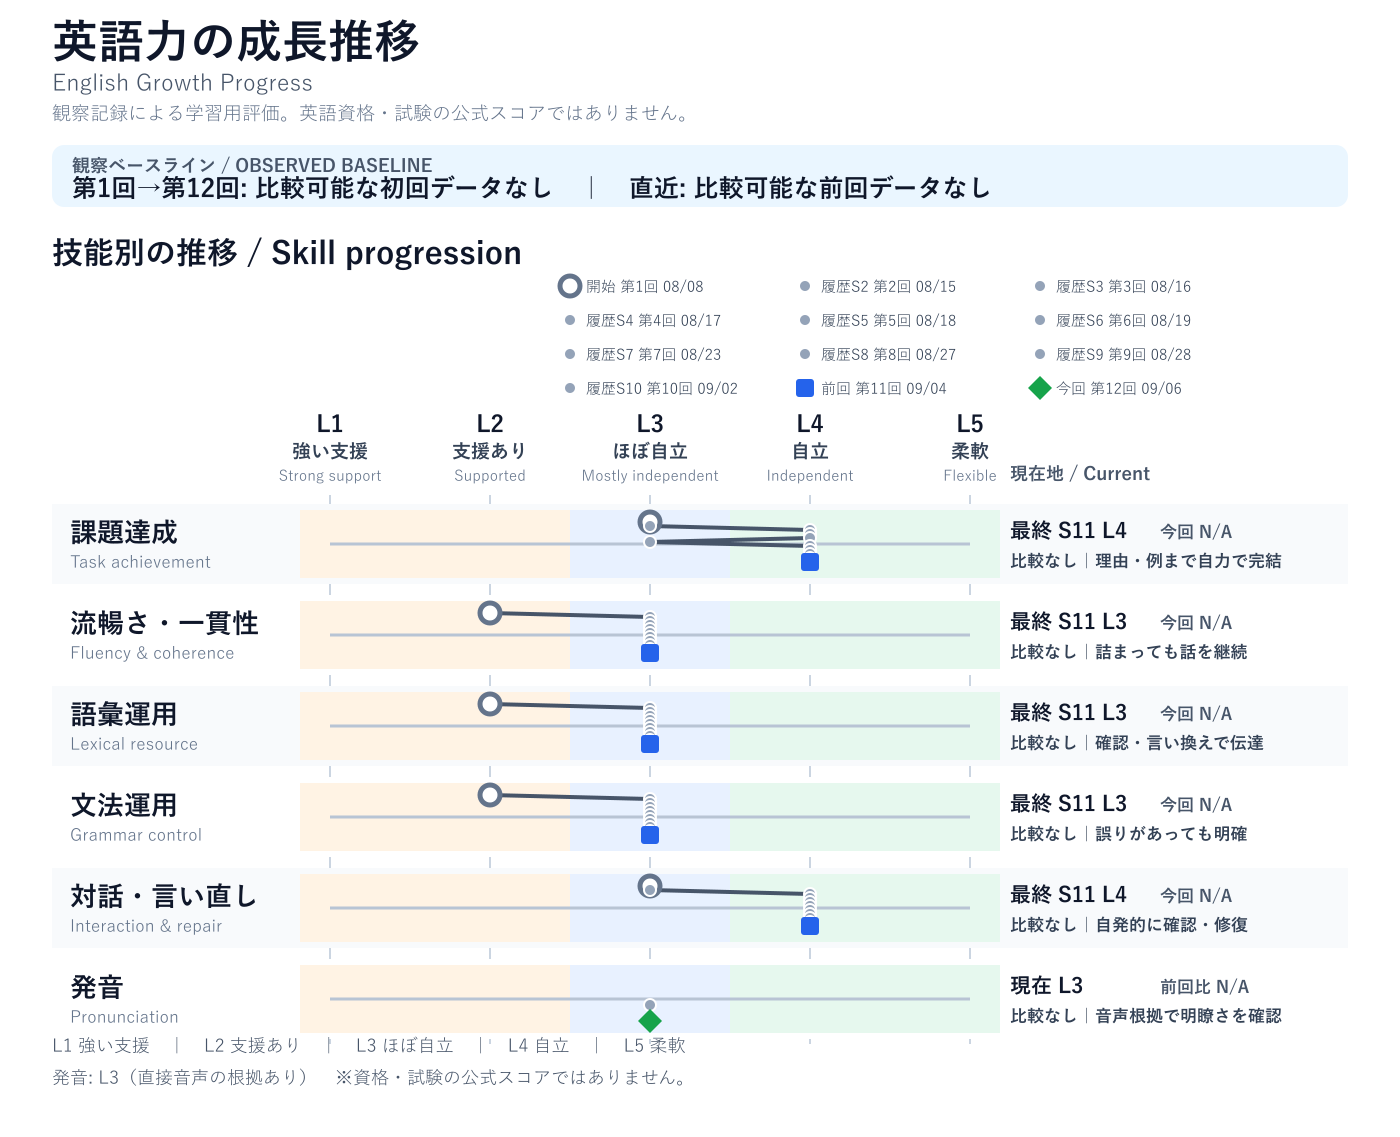
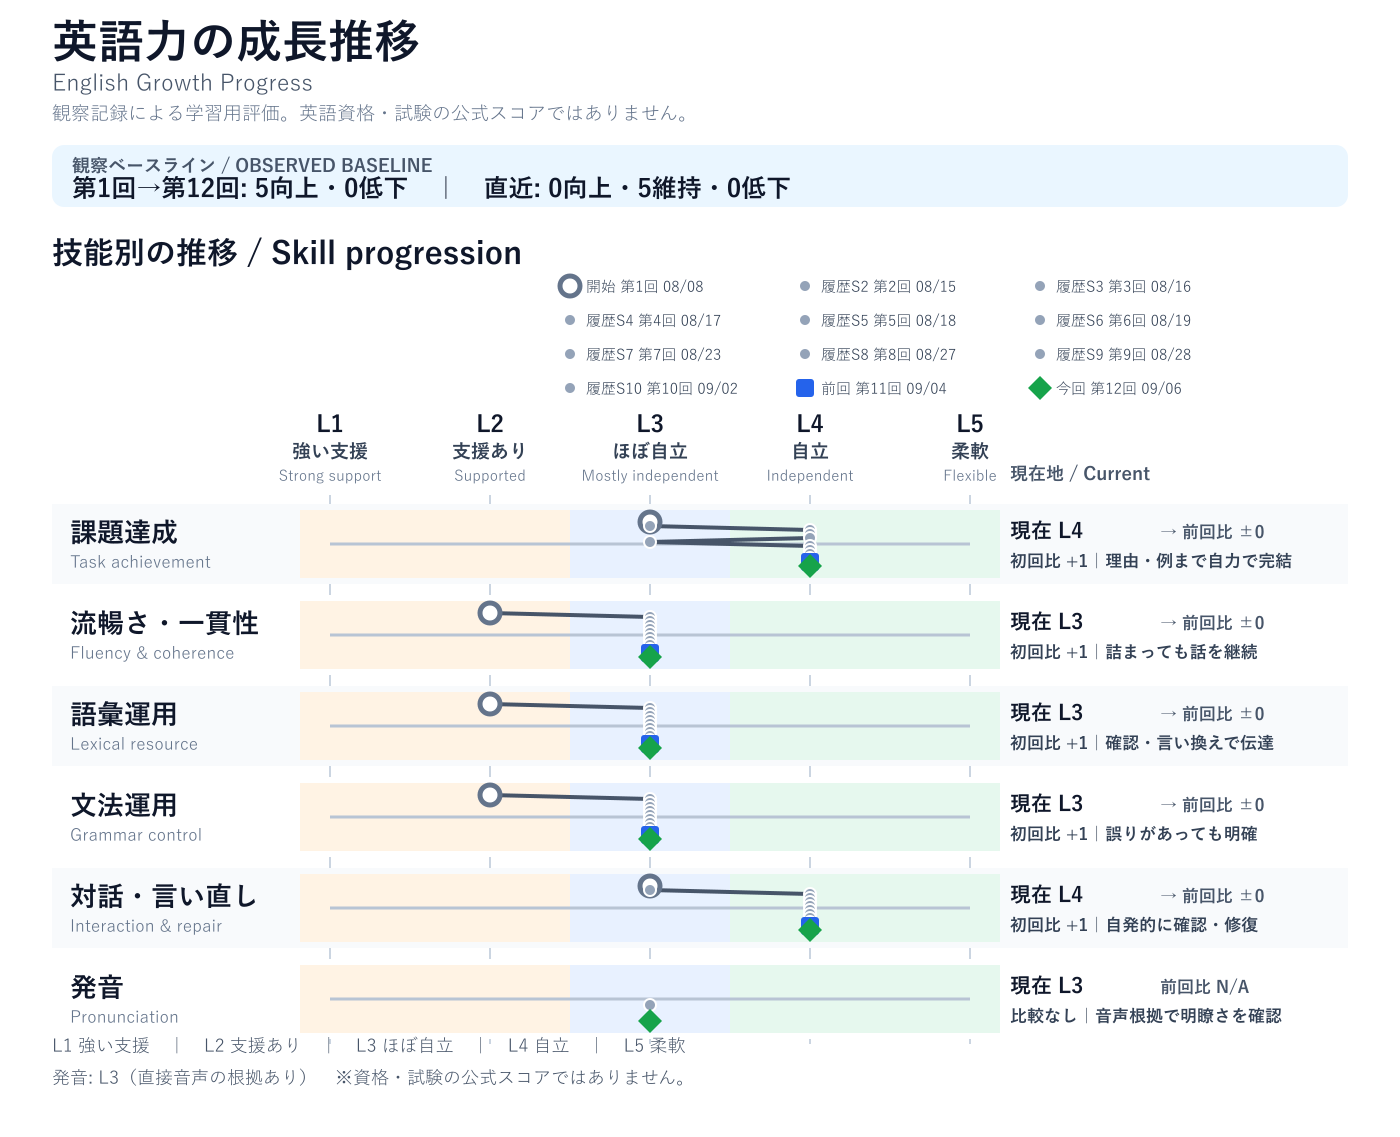
fix: evaluate full GPT-6 Astra conversation

diff --git a/learning-records/journal.md b/learning-records/journal.md
@@ -74,7 +74,7 @@
 > **主な話題:** GPT-6 Astraの公式記事、技術英文の音読、AIの自律性とソフトウェア設計、直接音声による発音評価
 
 > [!NOTE]
-> 今回は標準の60秒ベンチマークではない、約36秒の`read_aloud`評価である。会話能力の5指標は再採点せず、直接確認できたPronunciationだけを記録する。
+> 会話能力の5指標は本日の会話全体、Pronunciationは約36秒の直接録音から評価する。音読は標準の60秒ベンチマークではないため、Pronunciationの過去回との優劣は判定しない。
 
 ### 今日の要点 / Today at a Glance
 
@@ -190,15 +190,17 @@ An application may work well on the surface, while hidden problems remain in the
 
 ### 英語力の成長メモ / English Growth & Evaluation
 
-音読後にはAIの自律性とソフトウェア設計を自由に議論したが、比較可能な会話ベンチマークは実施していない。このため、Task achievement、Fluency & coherence、Lexical resource、Grammar control、Interaction & repairは**N/A / 今回は新しい測定点を追加しない**とする。最後に確認した会話能力の評価はSession 11であり、今回の短い音読と自由討議だけを理由に数値を再評価しない。
+音読後の自由討議では、記事の要点確認から、AIの自律性の利点とリスク、要件定義、人のチェックポイント、表面から見えないbackendの問題まで、一つの技術的な論点を長く維持した。誤解が生じた場面では、記事へ戻るよう英語で明確に指示し、説明を易しくするよう求めて会話を修復した。これらを本日の会話能力5指標の根拠とし、Pronunciationは直接録音だけから評価する。
+
+Yuki自身にも「以前よりかなりスムーズに英語が出てくる」という実感がある。停止、繰り返し、語探しはまだ見られるためFluency & coherenceの段階はL3のままだが、抽象的な技術議論を英語で続けられた観察事実と本人実感は一致している。これは、レベル据え置きではなく、**L3の中で発話の自動化が進んだ定性的成長**として記録する。
 
 | Metric | Level | Evidence |
 |---|---:|---|
-| Task achievement | **N/A** | 短い音読であり、会話タスクを測定していない。 |
-| Fluency & coherence | **N/A** | 自由発話・比較可能な会話課題を測定していない。 |
-| Lexical resource | **N/A** | 用意した英文の音読であり、語彙運用を再評価していない。 |
-| Grammar control | **N/A** | 自由な文作成を測定していない。 |
-| Interaction & repair | **N/A** | 対話タスクを測定していない。 |
+| Task achievement | **L4** | 記事の要点を確認し、自律性の利点とリスク、要件定義・人のチェックポイントという結論まで自力で展開した。 |
+| Fluency & coherence | **L3** | 停止・繰り返し・言い直しはあるが、複数のやり取りにわたる技術議論のつながりを維持した。本人の「英語がかなりスムーズに出る」という実感も、L3内の前進として記録する。 |
+| Lexical resource | **L3** | `autonomy`、`requirement`、`checkpoint`、`backend`などを確認後に再利用した。専門語の語探しには支援が必要だった。 |
+| Grammar control | **L3** | 断片や時制・語形の揺れは残るが、因果・条件を含む主張は明確に伝わった。 |
+| Interaction & repair | **L4** | 誤解を明確に訂正し、記事へ戻す、易しい説明を求めるなど、会話を自発的に調整した。 |
 | Pronunciation | **L3** | 直接音声で全体の明瞭さ、安定した速度、音割れなしを確認。標準音素採点ではない。 |
 
 ### 学習バンク更新 / Study Banks Update
@@ -1428,33 +1430,35 @@ Why: 改善点には work on / focus on が自然。
 ## できるようになったこと
 
 **最新の直接発音評価： [Session 12（2026年9月6日）](#session-2026-09-06-01)**
-**最新の会話評価： [Session 11（2026年9月4日）](#session-2026-09-04-01)**
+**最新の会話評価： [Session 12（2026年9月6日）](#session-2026-09-06-01)**
 
 - 旅行など身近な話題から、AI・エネルギー・文化のような抽象的なテーマまで、意見と理由をつないで話せる。
 - 分からない語や質問の意図を確認し、誤解を自分で修復できる。
 - 朝のルーティンからAI支援開発、AI時代の価値創造まで、身近な例と抽象的な考えをつないで説明できる。
+- AIの自律性、要件定義、設計レビューのような抽象的な技術テーマでも、誤解を修正しながら自分の結論まで会話を続けられる。
+- 本人の「英語がかなりスムーズに出る」という感覚と、長い技術議論を維持できた事実が一致しており、Fluency L3内で発話の自動化が進んでいる。
 - 直接録音では、技術英文を聞き取りやすい速度で読み、モデル名や複合語の練習点を音声根拠から絞り込める。
 
 ## Current Snapshot
 
 | 評価観点 | 現在 | 会話で確認できたこと |
 |---|---:|---|
-| **Task achievement** | **L4 / Session 11で最終確認** | 結論・理由・例をつないで、自分の考えを完結できる。Session 12は音読のみで、今回の会話評価はN/A。 |
-| **Fluency & coherence** | **L3 / Session 11で最終確認** | 言い直しがあっても、話の軸を保って続けられる。Session 12は会話タスク未測定。 |
-| **Lexical resource** | **L3 / Session 11で最終確認** | 関心分野の語彙を使い、確認や言い換えで意図を伝えられる。Session 12は語彙運用未測定。 |
-| **Grammar control** | **L3 / Session 11で最終確認** | 断片的な文や時制・語順の不安定さはあるが、確認を通して主要な意図を明確に伝えられる。Session 12は自由文作成未測定。 |
-| **Interaction & repair** | **L4 / Session 11で最終確認** | 語義や質問の意図を自分から確認し、会話を前へ進められる。Session 12は対話タスク未測定。 |
+| **Task achievement** | **L4 / Session 12** | 記事の理解からAIの自律性と人のチェックポイントという結論まで、理由をつないで完結できた。 |
+| **Fluency & coherence** | **L3 / Session 12** | 言い直しがあっても長い技術議論の軸を保った。本人実感も含め、L3内でスムーズさが前進している。 |
+| **Lexical resource** | **L3 / Session 12** | 専門語を確認して再利用し、自分の実務的な懸念を説明できた。語探しには支援が残る。 |
+| **Grammar control** | **L3 / Session 12** | 断片や語形の揺れはあるが、条件・原因・対比を使って主要な意図を明確に伝えた。 |
+| **Interaction & repair** | **L4 / Session 12** | 誤解を自分から訂正し、記事へ戻す・説明を易しくするなど会話を目的へ戻せた。 |
 | **Pronunciation** | **L3 / Session 12直接音声** | 36秒の音読で、明瞭さの補助指標、安定した速度、音割れなしを確認。標準音素採点ではない。 |
 
 ## 発音の測定状況
 
-Session 12では、標準60秒課題とは別の技術英文を直接録音で評価し、全体の明瞭さは **L3 / Mostly independent** と保守的に記録した。Session 8と同じL3だが、文章・長さが異なるため変化の判定には使わない。会話能力の5指標はSession 11から再採点していない。
+Session 12では、標準60秒課題とは別の技術英文を直接録音で評価し、全体の明瞭さは **L3 / Mostly independent** と保守的に記録した。Session 8と同じL3だが、文章・長さが異なるため発音変化の判定には使わない。会話能力の5指標は、本日の会話全体を根拠に独立して評価した。
 
 ## 成長グラフ
 
 [![Session 1からSession 12までの英語力成長グラフ](media/progress/english-growth-evidence-dashboard.png)](media/progress/english-growth-evidence-dashboard.png)
 
-Session 1から12までの6指標を時系列で表示しています。Pronunciationは、直接音声の根拠があるSession 8とSession 12だけを測定値として扱います。Session 12の会話能力5指標はN/Aとして可視化し、未測定を能力低下にしません。画像をタップすると原寸で確認できます。
+Session 1から12までの6指標を時系列で表示しています。Session 12の会話能力5指標は本日の会話全体、Pronunciationは直接音声から評価しています。Pronunciationは、直接音声の根拠があるSession 8とSession 12だけを測定値として扱い、未測定回を能力低下にしません。画像をタップすると原寸で確認できます。
 
 ## 次に伸ばすこと
 
@@ -1466,7 +1470,7 @@ Session 1から12までの6指標を時系列で表示しています。Pronunci
 
 各リンク先には、その回の評価根拠と次の練習があります。
 
-- [Session 12 — GPT-6 Astraの音読・自律性の議論と直接発音評価](#session-2026-09-06-01) — 36秒の直接音声で発音の明瞭さをL3として保守的に記録。自由討議は行ったが、比較可能な会話能力5指標は未測定。
+- [Session 12 — GPT-6 Astraの音読・自律性の議論と直接発音評価](#session-2026-09-06-01) — 会話全体をL4 / L3 / L3 / L3 / L4、36秒の直接音声をPronunciation L3として評価。FluencyはL3内での前進も記録。
 - [Session 11 — AI時代の価値創造と朝の集中時間](#session-2026-09-04-01) — 会話評価：L4 / L3 / L3 / L3 / L4、発音は未測定。
 - [Session 10 — キャリア選択を冷静に考える](#session-2026-09-02-01) — 会話評価：L4 / L3 / L3 / L3 / L4、発音は未測定。
 - [Session 9 — Godzillaの象徴性と日常からの小さな逃避](#session-2026-08-28-01) — 会話評価：L4 / L3 / L3 / L3 / L4、発音は未測定。
